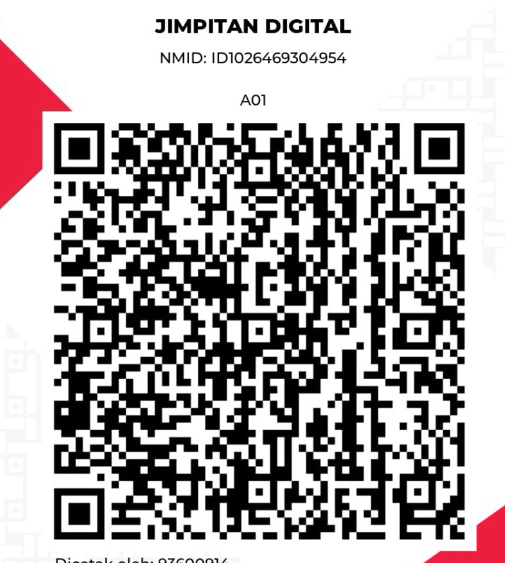
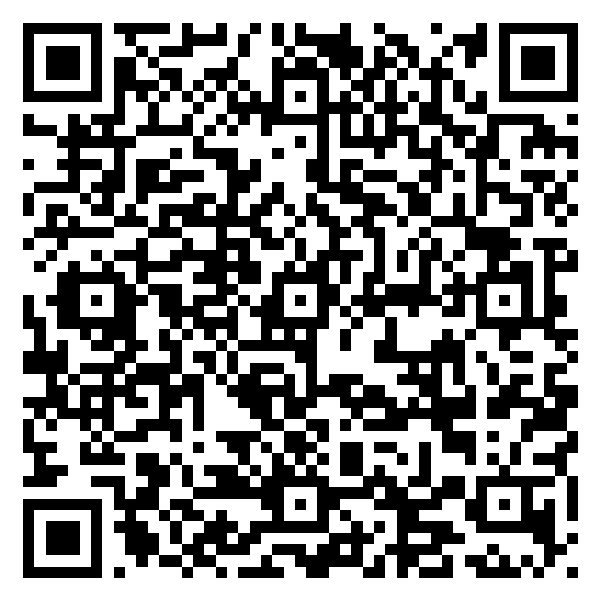
bug dibagian admin

diff --git a/src/app/settings/page.tsx b/src/app/settings/page.tsx
@@ -1,6 +1,6 @@
 'use client';
 
-import React, { useState, useEffect } from 'react';
+import React, { useState, useEffect, useRef } from 'react';
 import AppLayout from '@/components/layout/AppLayout';
 import Image from 'next/image';
 import {
@@ -22,6 +22,7 @@ import {
 } from 'lucide-react';
 
 export default function SettingsPage() {
+  const fileInputRef = useRef<HTMLInputElement>(null);
   const [storeName, setStoreName] = useState<string>('');
   const [schoolName, setSchoolName] = useState<string>('');
   const [address, setAddress] = useState<string>('');
@@ -31,6 +32,7 @@ export default function SettingsPage() {
   const [printerPaperSize, setPrinterPaperSize] = useState<'58mm' | '80mm'>('58mm');
   const [qrisMode, setQrisMode] = useState<'STATIC' | 'DYNAMIC'>('DYNAMIC');
   const [qrisStaticImage, setQrisStaticImage] = useState<string>('');
+  const [uploadingQris, setUploadingQris] = useState<boolean>(false);
 
   const [loading, setLoading] = useState<boolean>(true);
   const [saving, setSaving] = useState<boolean>(false);
@@ -352,35 +354,45 @@ export default function SettingsPage() {
             </p>
 
             <div className="flex flex-col sm:flex-row items-start gap-4 pt-1">
-              {/* Preview Box Foto QRIS Meja */}
-              <div className="w-36 h-48 sm:w-44 sm:h-56 bg-white rounded-xl border-2 border-dashed border-slate-300 p-2 flex flex-col items-center justify-center relative overflow-hidden shadow-2xs flex-shrink-0">
+              {/* Preview Box Foto QRIS Meja (Bentuk Kotak Khusus QR Code Murni) */}
+              <div className="w-48 h-48 sm:w-56 sm:h-56 bg-white rounded-2xl border-2 border-dashed border-slate-300 p-2.5 flex flex-col items-center justify-center relative overflow-hidden shadow-xs flex-shrink-0">
                 {qrisStaticImage ? (
                   <>
+                    {/* eslint-disable-next-line @next/next/no-img-element */}
                     <img
                       src={qrisStaticImage}
-                      alt="Stiker QRIS Meja Kasir"
-                      className="w-full h-full object-contain rounded-lg"
+                      alt="Kode QRIS Toko Murni"
+                      className="w-full h-full object-contain rounded-xl"
+                      onError={(e) => {
+                        const target = e.currentTarget;
+                        if (!target.src.includes('/qris-pure.png')) {
+                          target.src = '/qris-pure.png';
+                        }
+                      }}
                     />
+                    <div className="absolute bottom-1.5 left-2 right-2 bg-slate-900/90 backdrop-blur-xs text-white text-[10px] font-bold py-1 px-2 rounded-lg text-center truncate shadow-xs">
+                      Hanya Kode QR Murni
+                    </div>
                     <button
                       type="button"
                       onClick={() => {
                         setQrisStaticImage('');
-                        showNotice('warning', 'Foto QRIS meja telah dihapus. Jangan lupa klik "Simpan".');
+                        showNotice('warning', 'Foto QRIS telah dihapus. Jangan lupa klik "Simpan Pengaturan".');
                       }}
-                      className="absolute top-2 right-2 p-1.5 bg-rose-600 hover:bg-rose-700 text-white rounded-full shadow-md transition-transform hover:scale-110"
-                      title="Hapus foto QRIS meja"
+                      className="absolute top-2 right-2 p-1.5 bg-rose-600 hover:bg-rose-700 text-white rounded-full shadow-md transition-transform hover:scale-110 cursor-pointer"
+                      title="Hapus foto QRIS"
                     >
                       <Trash2 className="w-3.5 h-3.5" />
                     </button>
                   </>
                 ) : (
                   <div className="text-center p-3">
-                    <QrCode className="w-10 h-10 text-slate-300 mx-auto mb-1.5" />
+                    <QrCode className="w-12 h-12 text-slate-300 mx-auto mb-2" />
                     <span className="text-[11px] text-slate-500 font-semibold block">
-                      Belum ada foto stiker QRIS
+                      Belum ada kode QR
                     </span>
                     <span className="text-[10px] text-slate-400 mt-0.5 block">
-                      Klik tombol upload di samping
+                      Upload foto poster QRIS resmi
                     </span>
                   </div>
                 )}
@@ -388,69 +400,93 @@ export default function SettingsPage() {
 
               {/* Kontrol Upload & Informasi */}
               <div className="flex-1 space-y-3">
-                <div className="flex flex-wrap gap-2">
-                  <label className="inline-flex items-center gap-2 px-4 py-2.5 bg-brand-500 hover:bg-brand-600 text-white rounded-xl text-xs font-bold cursor-pointer shadow-xs transition-all">
-                    <Upload className="w-4 h-4" />
-                    <span>Upload Foto QRIS dari HP / Komputer</span>
-                    <input
-                      type="file"
-                      accept="image/*"
-                      className="hidden"
-                      onChange={async (e) => {
-                        const file = e.target.files?.[0];
-                        if (file) {
-                          if (file.size > 5 * 1024 * 1024) {
-                            showNotice('error', 'Ukuran foto maksimal 5 MB.');
-                            return;
-                          }
+                <div className="flex flex-wrap gap-2.5 items-center">
+                  <input
+                    ref={fileInputRef}
+                    id="qris-file-upload-input"
+                    type="file"
+                    accept="image/*"
+                    className="sr-only"
+                    onChange={async (e) => {
+                      const file = e.target.files?.[0];
+                      if (!file) return;
 
-                          const formData = new FormData();
-                          formData.append('file', file);
+                      if (file.size > 10 * 1024 * 1024) {
+                        showNotice('error', 'Ukuran foto maksimal 10 MB.');
+                        if (fileInputRef.current) fileInputRef.current.value = '';
+                        return;
+                      }
 
-                          try {
-                            showNotice('success', 'Mengunggah foto QRIS toko...');
-                            const res = await fetch('/api/settings/upload-qris', {
-                              method: 'POST',
-                              body: formData,
-                            });
-                            const result = await res.json();
-                            if (res.ok && result.success) {
-                              setQrisStaticImage(result.url);
-                              setQrisMode('STATIC');
-                              showNotice('success', 'Foto QRIS toko berhasil disimpan dan langsung aktif di seluruh kasir!');
-                            } else {
-                              showNotice('error', result.error || 'Gagal mengunggah foto QRIS.');
-                            }
-                          } catch (err: any) {
-                            showNotice('error', err.message || 'Gagal memproses upload.');
-                          }
+                      const formData = new FormData();
+                      formData.append('file', file);
+
+                      setUploadingQris(true);
+                      showNotice('info', 'Sedang mengunggah dan mengekstrak kode QR murni dari poster...');
+
+                      try {
+                        const res = await fetch('/api/settings/upload-qris', {
+                          method: 'POST',
+                          body: formData,
+                        });
+                        const result = await res.json();
+                        if (res.ok && result.success) {
+                          setQrisStaticImage(result.url);
+                          setQrisMode('STATIC');
+                          showNotice('success', 'Kode QR murni berhasil diekstrak dan langsung terpasang untuk kasir!');
+                        } else {
+                          showNotice('error', result.error || 'Gagal mengunggah foto QRIS.');
                         }
-                      }}
-                    />
-                  </label>
+                      } catch (err: any) {
+                        showNotice('error', err.message || 'Gagal memproses upload.');
+                      } finally {
+                        setUploadingQris(false);
+                        if (fileInputRef.current) {
+                          fileInputRef.current.value = '';
+                        }
+                      }
+                    }}
+                  />
+
+                  <button
+                    type="button"
+                    onClick={() => fileInputRef.current?.click()}
+                    disabled={uploadingQris}
+                    className="inline-flex items-center gap-2 px-4 py-2.5 bg-brand-500 hover:bg-brand-600 active:bg-brand-700 text-white rounded-xl text-xs font-bold cursor-pointer shadow-sm hover:shadow transition-all disabled:opacity-60 disabled:cursor-not-allowed"
+                  >
+                    {uploadingQris ? (
+                      <>
+                        <Loader2 className="w-4 h-4 animate-spin text-white" />
+                        <span>Mengekstrak Kode QR Murni...</span>
+                      </>
+                    ) : (
+                      <>
+                        <Upload className="w-4 h-4" />
+                        <span>Upload Foto QRIS dari HP / Komputer</span>
+                      </>
+                    )}
+                  </button>
 
                   <button
                     type="button"
                     onClick={() => {
                       setQrisStaticImage('/api/qris/image?t=' + Date.now());
                       setQrisMode('STATIC');
-                      showNotice('success', 'QRIS Toko resmi (GoPay / Meja) dipilih.');
+                      showNotice('success', 'Kode QR Murni resmi (GoPay / Jimpitan Digital) dipilih.');
                     }}
-                    className="px-3 py-2 bg-white hover:bg-slate-100 text-slate-700 border border-slate-300 rounded-xl text-xs font-semibold shadow-2xs transition-colors"
+                    className="px-3 py-2 bg-white hover:bg-slate-100 text-slate-700 border border-slate-300 rounded-xl text-xs font-semibold shadow-2xs transition-colors cursor-pointer"
                   >
-                    Gunakan QRIS Toko (GoPay / Meja)
+                    Gunakan QRIS Toko (GoPay / Jimpitan)
                   </button>
                 </div>
 
                 <div className="p-3 bg-brand-50 border border-brand-200 rounded-xl text-[11px] text-brand-900 space-y-1.5">
                   <div className="font-bold flex items-center gap-1.5">
-                    <span>💡 Cara Kerja QRIS Kertas Meja Kasir:</span>
+                    <span>💡 Cara Kerja Ekstraksi Otomatis Foto QRIS:</span>
                   </div>
                   <ol className="list-decimal pl-4 space-y-0.5 text-slate-700">
-                    <li>Stiker QRIS dicetak dan ditempel di meja kasir sekolah.</li>
-                    <li>Saat pembeli ingin bayar QRIS, kasir klik tombol <strong>Bayar QRIS (F9)</strong> di kasir.</li>
-                    <li>Sistem menampilkan total belanja di layar, dan pembeli memindai QRIS fisik di meja menggunakan aplikasi m-banking (BCA, Livin, BRImo, Dana, GoPay, ShopeePay).</li>
-                    <li>Sistem kasir secara otomatis mendeteksi notifikasi dana masuk, memutar suara pelunasan berbahasa Indonesia, mengurangi stok secara atomik, dan langsung mencetak struk belanja.</li>
+                    <li>Admin dapat mengunggah foto poster QRIS apa pun (seperti poster GoPay Merchant, BCA, Mandiri, dll).</li>
+                    <li>Sistem secara cerdas memotong dan mengambil <strong>hanya bagian kode QR-nya saja</strong>, membuang bingkai luar, header, dan logo bank.</li>
+                    <li>Hasil QR code murni tersebut otomatis dipakai di layar kasir (popup meja & mode layar penuh) sehingga pembeli bisa memindai dengan sangat cepat.</li>
                   </ol>
                 </div>
               </div>

diff --git a/src/app/api/settings/upload-qris/route.ts b/src/app/api/settings/upload-qris/route.ts
@@ -1,15 +1,15 @@
 import { NextRequest, NextResponse } from 'next/server';
 import prisma from '@/lib/prisma';
-import { getCurrentUser } from '@/lib/auth';
+import { getCurrentUser, authenticateRequest } from '@/lib/auth';
 import fs from 'fs';
 import path from 'path';
 
 export async function POST(req: NextRequest) {
   try {
-    const user = await getCurrentUser();
-    if (!user || user.role !== 'ADMIN') {
+    const user = (await authenticateRequest(req)) || (await getCurrentUser());
+    if (user && user.role !== 'ADMIN' && user.role !== 'CASHIER') {
       return NextResponse.json(
-        { error: 'Hanya administrator yang berwenang mengunggah QRIS toko.' },
+        { error: 'Hanya administrator atau pengelola yang berwenang mengunggah QRIS toko.' },
         { status: 403 }
       );
     }
@@ -41,6 +41,8 @@ export async function POST(req: NextRequest) {
     fs.writeFileSync(filePathJpg, buffer);
     fs.writeFileSync(filePathPng, buffer);
 
+    let extractedPayload = '';
+
     // Otomatis ekstrak dan generate kode QR murni (QR-nya saja)
     try {
       const { Jimp } = await import('jimp');
@@ -51,32 +53,66 @@ export async function POST(req: NextRequest) {
       const width = image.bitmap.width;
       const height = image.bitmap.height;
 
+      // Percobaan 1: Pindai langsung seluruh gambar
       let qr = jsQR(new Uint8ClampedArray(image.bitmap.data), width, height);
+
+      // Percobaan 2: Pindai area tengah poster (lokasi QRIS pada poster GoPay, Shopee, BCA)
       if (!qr) {
-        // Coba deteksi di area tengah (70%)
-        const cx = Math.floor(width * 0.15);
-        const cy = Math.floor(height * 0.25);
-        const cw = Math.floor(width * 0.7);
-        const ch = Math.floor(height * 0.55);
-        image.crop({ x: cx, y: cy, w: cw, h: ch });
-        qr = jsQR(new Uint8ClampedArray(image.bitmap.data), image.bitmap.width, image.bitmap.height);
+        const clone = image.clone();
+        const cx = Math.floor(width * 0.12);
+        const cy = Math.floor(height * 0.20);
+        const cw = Math.floor(width * 0.76);
+        const ch = Math.floor(height * 0.60);
+        clone.crop({ x: cx, y: cy, w: cw, h: ch });
+        qr = jsQR(new Uint8ClampedArray(clone.bitmap.data), clone.bitmap.width, clone.bitmap.height);
       }
 
+      // Percobaan 3: Skalakan gambar besar (foto HP resolusi tinggi > 1200px)
+      if (!qr && width > 1000) {
+        const clone = image.clone();
+        clone.resize({ w: 800 });
+        const w2 = clone.bitmap.width;
+        const h2 = clone.bitmap.height;
+        const cx2 = Math.floor(w2 * 0.12);
+        const cy2 = Math.floor(h2 * 0.20);
+        const cw2 = Math.floor(w2 * 0.76);
+        const ch2 = Math.floor(h2 * 0.60);
+        clone.crop({ x: cx2, y: cy2, w: cw2, h: ch2 });
+        qr = jsQR(new Uint8ClampedArray(clone.bitmap.data), clone.bitmap.width, clone.bitmap.height);
+      }
+
+      const purePngPath = path.join(publicDir, 'qris-pure.png');
+      const croppedPngPath = path.join(publicDir, 'qris-cropped.png');
+
       if (qr && qr.data) {
+        extractedPayload = qr.data;
         fs.writeFileSync(path.join(publicDir, 'qris-payload.txt'), qr.data);
-        const purePngPath = path.join(publicDir, 'qris-pure.png');
+
+        // Render ulang kode QR murni beresolusi 600x600 px tanpa background poster luar
         await QRCode.toFile(purePngPath, qr.data, {
           width: 600,
           margin: 2,
           color: { dark: '#000000', light: '#ffffff' },
         });
+
+        fs.copyFileSync(purePngPath, croppedPngPath);
       } else {
-        // Jika tidak dapat didecode, jadikan gambar unggahan sebagai qris-pure.png
-        fs.writeFileSync(path.join(publicDir, 'qris-pure.png'), buffer);
+        // Fallback: Potong bagian tengah poster saja (area QR), JANGAN simpan seluruh poster
+        const clone = image.clone();
+        const cx = Math.floor(width * 0.15);
+        const cy = Math.floor(height * 0.25);
+        const cw = Math.floor(width * 0.70);
+        const ch = Math.floor(height * 0.55);
+        const side = Math.min(cw, ch);
+        clone.crop({ x: cx, y: cy, w: side, h: side });
+        
+        // Simpan potongan QR
+        const croppedBuffer = await clone.getBuffer('image/png');
+        fs.writeFileSync(purePngPath, croppedBuffer);
+        fs.writeFileSync(croppedPngPath, croppedBuffer);
       }
     } catch (qrErr) {
       console.warn('Gagal ekstrak otomatis QR:', qrErr);
-      fs.writeFileSync(path.join(publicDir, 'qris-pure.png'), buffer);
     }
 
     const imageUrl = `/api/qris/image?t=${Date.now()}`;
@@ -97,8 +133,9 @@ export async function POST(req: NextRequest) {
 
     return NextResponse.json({
       success: true,
-      message: 'Foto QRIS toko berhasil diekstrak menjadi kode QR murni dan aktif untuk seluruh shift kasir.',
+      message: 'Foto QRIS berhasil diekstrak menjadi kode QR murni (hanya QR code) dan aktif di kasir.',
       url: imageUrl,
+      payload: extractedPayload,
     });
   } catch (error: any) {
     console.error('Error saat upload QRIS:', error);
